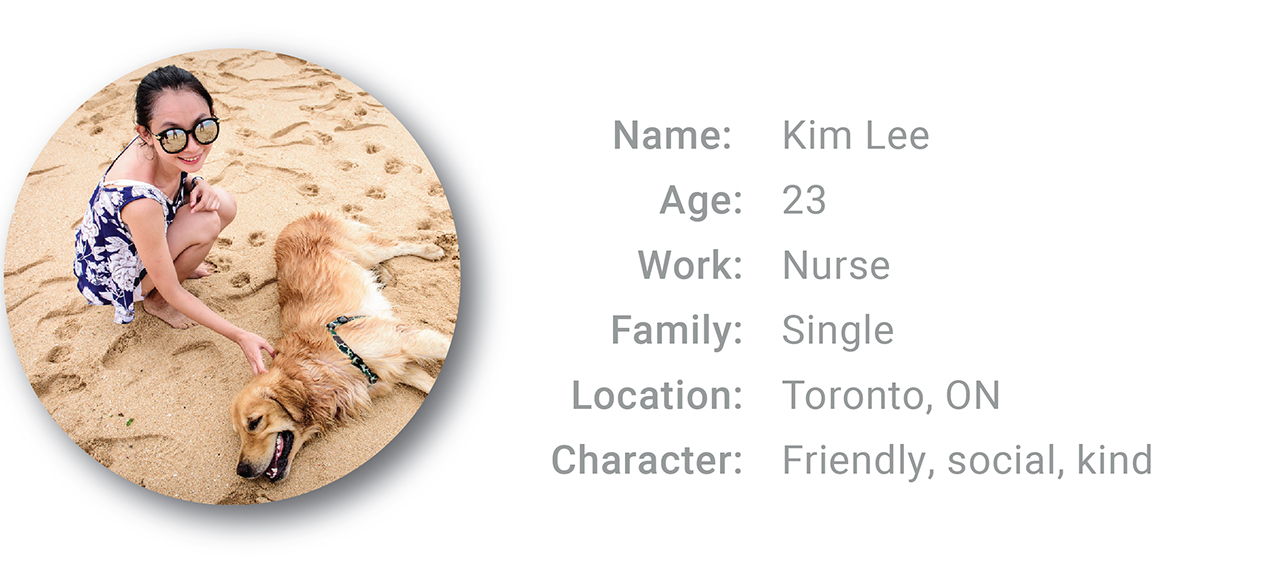
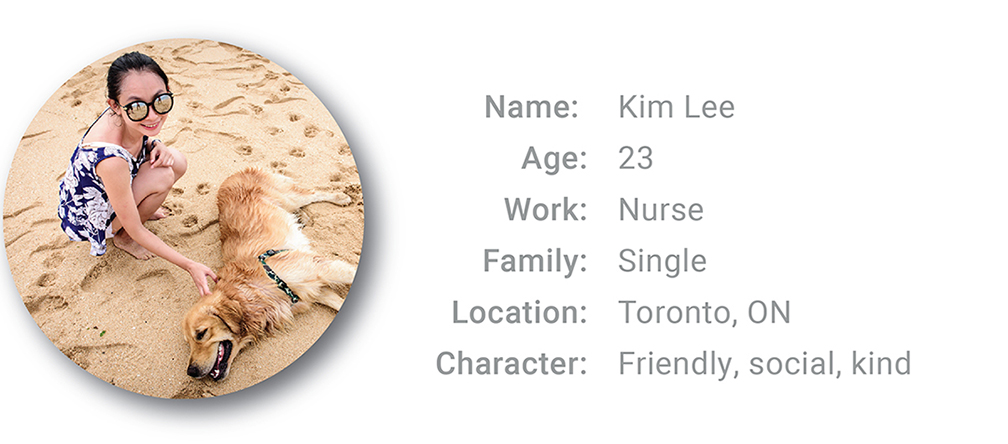
Changed images for web
RGB conversion and resizing

diff --git a/aac.html b/aac.html
@@ -56,7 +56,7 @@ meta: Algonquin Accounting Club Logo at Algonquin College.
   </div>
 
   <div itemscope itemtype="https://schema.org/Photograph" class="unit [xs-1 s-1-2 m-1-2 l-1-2] push">
-    <img itemprop="image" class="img-flex gutter-1-2" src="{{site.baseurl}}/images/aac/aac-poster22.jpg" alt="">
+    <img itemprop="image" class="img-flex gutter-1-2" src="{{site.baseurl}}/images/aac/aac-poster2.jpg" alt="">
   </div>
 
   <div itemscope itemtype="https://schema.org/Text" class="unit xs-1 s-1 m-1 l-1 gutter-1-2 text-center pad-t">
